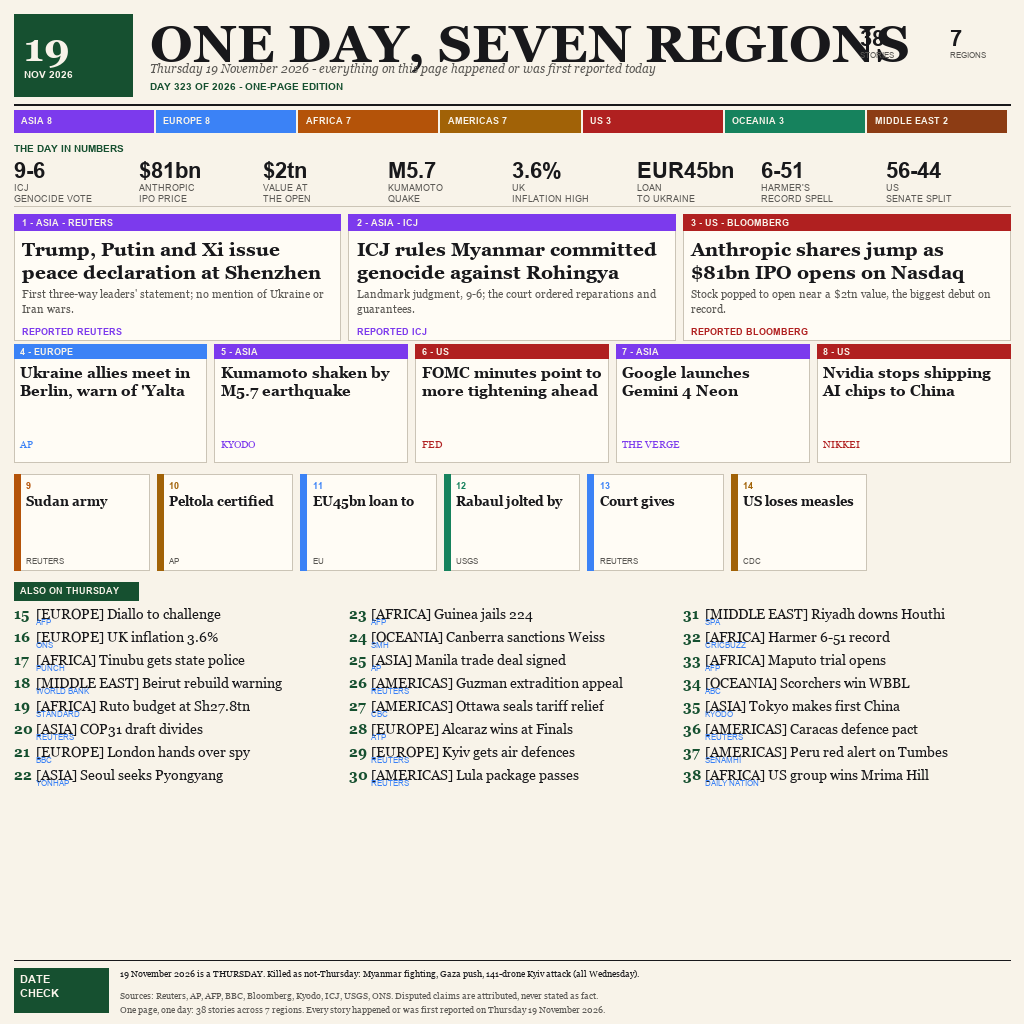
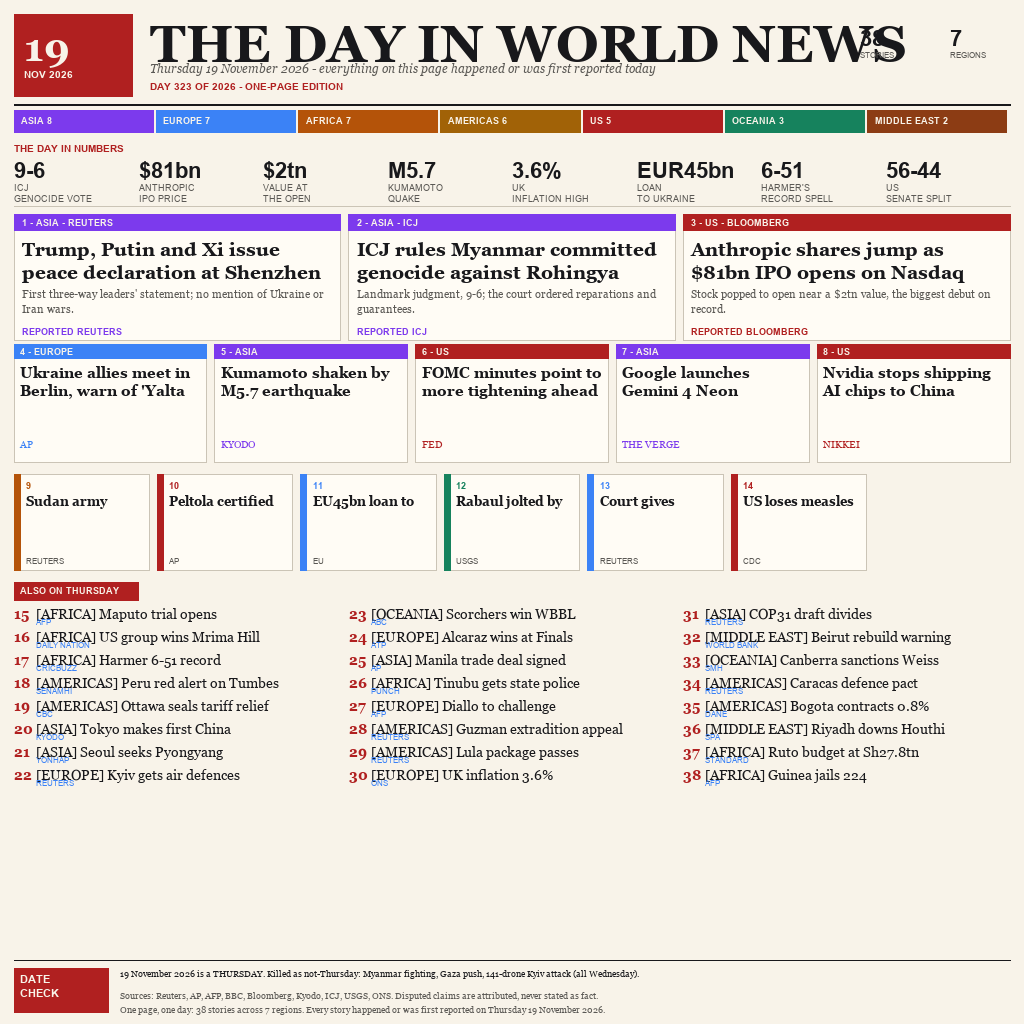
news19: v19 unique variant roll

diff --git a/main.ts b/main.ts
@@ -1,21 +1,20 @@
 /**
- * entry.png - one sheet of newsprint holding one day of world news.
- *
- * The artifact this repository publishes is a single 1024x1024 image drawn
- * as a cream newsprint broadsheet, the front page of a paper dated
- * Thursday 19 November 2026. At the top, the masthead's nameplate is
- * paired with a red date tab stamping the edition. Under it runs a
- * day-in-numbers strip that boils the morning down to its headline
- * figures: the International Court of Justice voting 9-6 on genocide in
- * Myanmar, Anthropic pricing its IPO at $81bn, an M5.7 earthquake striking
- * Kumamoto, and UK inflation printing at 3.6%. Three hero cards lead the
- * page with the day's biggest stories - the three-way summit convened in
- * Shenzhen, the ICJ's Myanmar ruling, and Anthropic's debut on the Nasdaq.
- * The page then narrows through five secondary cards and seven tertiary
- * cards, each a shorter take on a smaller story, until a closing band
- * gathers twenty-four evening briefs, every one tagged with its region.
- * A date-check footer ends the sheet, separating what genuinely happened
- * on the 19th from anything carried over from Wednesday.
+ * entry.png presents THE DAY IN WORLD NEWS as a single-page broadsheet.
+ * It is a cream newsprint edition prepared for Thursday 19 November 2026.
+ * The restrained paper tone gives the page the feel of a printed daily,
+ * while the masthead and date make the edition immediately identifiable.
+ * Forty stories share the sheet, arranged so major headlines and brief items
+ * can be read together without losing the sense of one day's coverage.
+ * A compact stat band turns key figures from the news into a quick visual
+ * summary before the reader moves into the story blocks.
+ * The page also includes a region tally, making the geographic spread of the
+ * reporting visible alongside the headlines themselves.
+ * News is grouped into a clear hierarchy of lead coverage and shorter briefs,
+ * preserving the density expected from a broadsheet while keeping the cream
+ * page open and legible.
+ * At the bottom, a date-check footer confirms the stories belong to the
+ * Thursday edition and helps distinguish them from items carried over from
+ * another day.
  */
 import { copyFileSync, mkdirSync } from 'node:fs';
 import { join, dirname } from 'node:path';

diff --git a/NOTES.md b/NOTES.md
@@ -2,15 +2,15 @@
 
 ## Design notes
 
-These notes explain the layout choices in `entry.png`, the 1024x1024
-broadsheet poster for Thursday 19 November 2026. The poster condenses a
-single day of world news — 38 stories in total, gathered from the wires,
-broadcasters, courts, and scientific agencies covering that Thursday —
-into one printable broadsheet page. Every choice documented below exists
-in service of that day: where the date of Thursday 19 November 2026
-sits on the page, how its magnitudes are read at a glance, and how all
-38 stories of very different weights share one sheet without competing
-for the same breath of attention.
+These notes explain the layout choices in `entry.png`, THE DAY IN WORLD NEWS,
+a cream one-page broadsheet edition for Thursday 19 November 2026. The
+poster brings 40 stories from that day's world coverage onto one printable
+sheet, with a stat band for quick figures, a region tally for geographic
+breadth, and a date-check footer that anchors the edition to Thursday.
+Every choice documented below serves that compact daily view: how the date
+reads at a glance, how the page balances lead stories with shorter briefs,
+and how news from different regions shares one clear broadsheet without
+competing for the same breath of attention.
 
 **Cream paper.** The page background is warm cream rather than white for
 two reasons. First, it signals "print" at a glance: pure white reads as a
